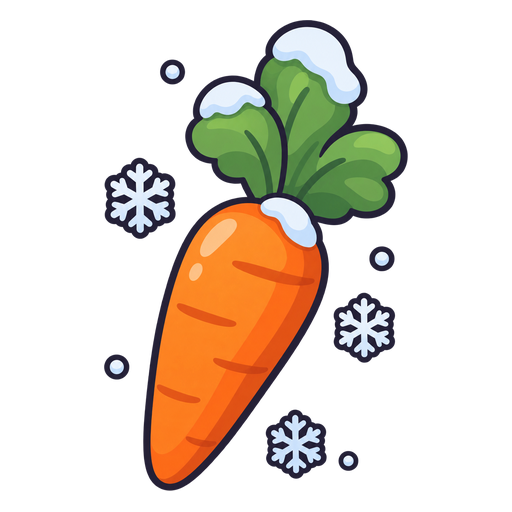
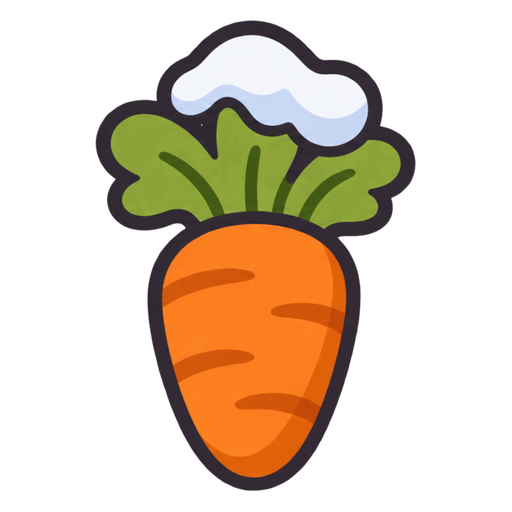
Bonecos e comidas novos, todos no mesmo estilo, e toca sem bagas
- Animais e comidas gerados em duas folhas (mesmo traço, tamanho e luz)
  e cortados com tools/split_sheet.py; coelho castanho, que se vê na
  neve; comidas sem cara e sem flocos à volta.
- As folhas originais ficam em assets/images/fontes (ignorada pelo
  Godot, não entra no jogo).

Claude-Session: https://claude.ai/code/session_019qmALCv4ef3vy6rfbU3Dgw

diff --git a/docs/imagens.md b/docs/imagens.md
@@ -150,6 +150,8 @@ python tools/split_sheet.py assets/images/comidas.png comida_ourico comida_coelh
 python tools/prep_images.py
 ```
 
+As folhas originais ficam em `assets/images/fontes/` (o Godot ignora essa pasta).
+
 **`animais.png`** (formato largo, 3:1)
 > A sprite sheet of three cute chibi animal characters for a cozy winter mobile puzzle game, side by side in a single row, evenly spaced with clear empty space between them, all the same size and drawn in exactly the same style. Each sits facing the viewer. Left: a hedgehog with warm dark-brown spikes, a cream face and a teal (#2E8C7E) knitted scarf. Middle: a rabbit with warm caramel-brown fur, a cream belly, long upright ears with pink inside and a raspberry-pink (#C2477A) knitted scarf. Right: a fox with bright orange fur, white cheeks and chest, a fluffy white-tipped tail and a cream knitted scarf with orange stripes. Big round heads (about 60% of the character's height), small simple bodies, large shiny eyes, rosy cheeks, small happy smile. Thick dark navy outline (#34303C) of the same thickness on all three, flat colors with one soft shade, almost no fur texture, no thin lines, readable at 64 pixels. Transparent background, no text, no ground, no shadow.
 
